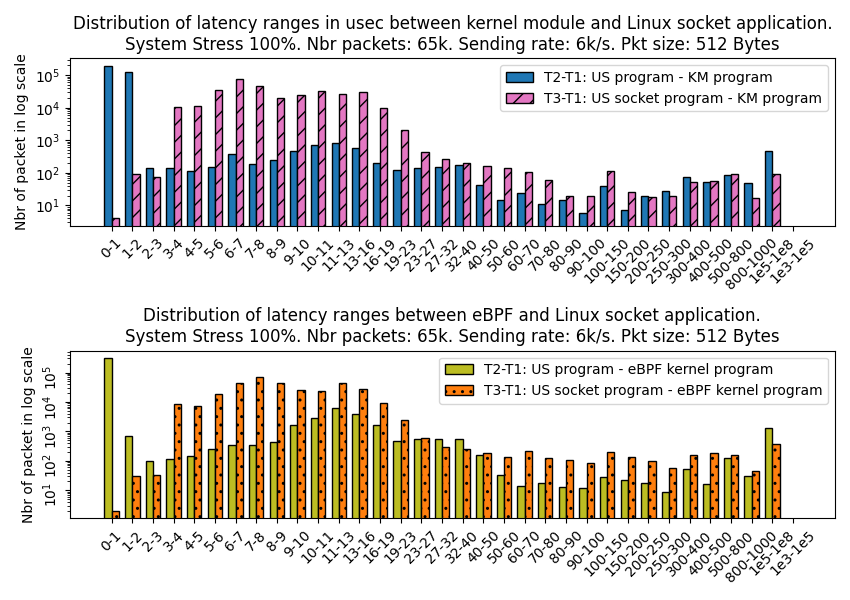
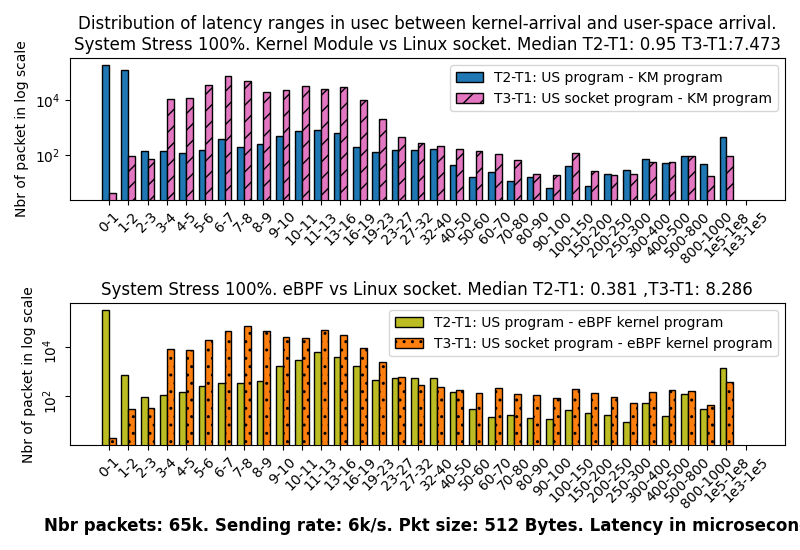
good images

diff --git a/scripts/ps_combi_2_stress_non.py b/scripts/ps_combi_2_stress_non.py
@@ -15,12 +15,12 @@ import math
 # ]
 
 translate_cases = {
-    "32k_nonstress_3pkpms_1024Bytes": "Non-Stress. Nbr packets: 32k. Sending rate: 3k/s. Pkt size: 1024 Bytes",
-    "32k_stress_3pkpms_1024Bytes": "System Stress 100%. Nbr packets: 32k. Sending rate: 3k/s. Pkt size: 1024 Bytes",
-    "65k_nonstress_6pkpms_512Bytes": "Non-Stress. Nbr packets: 65k. Sending rate: 6k/s. Pkt size: 512 Bytes",
-    "65k_stress_6pkpms_512Bytes": "System Stress 100%. Nbr packets: 65k. Sending rate: 6k/s. Pkt size: 512 Bytes",
-    "524k_nonstress_50pkpms_64Bytes": "Non-Stress. Nbr packets: 524k. Sending rate: 50k/s. Pkt size: 64 Bytes",
-    "524k_stress_50pkpms_64Bytes": "System Stress 100%. Nbr packets: 524k. Sending rate: 50k/s. Pkt size: 64 Bytes",
+    "32k_nonstress_3pkpms_1024Bytes": ["Non-Stress", "Nbr packets: 32k. Sending rate: 3k/s. Pkt size: 1024 Bytes"],
+    "32k_stress_3pkpms_1024Bytes": ["System Stress 100%", "Nbr packets: 32k. Sending rate: 3k/s. Pkt size: 1024 Bytes"],
+    "65k_nonstress_6pkpms_512Bytes": ["Non-Stress", "Nbr packets: 65k. Sending rate: 6k/s. Pkt size: 512 Bytes"],
+    "65k_stress_6pkpms_512Bytes": ["System Stress 100%", "Nbr packets: 65k. Sending rate: 6k/s. Pkt size: 512 Bytes"],
+    "524k_nonstress_50pkpms_64Bytes": ["Non-Stress", "Nbr packets: 524k. Sending rate: 50k/s. Pkt size: 64 Bytes"],
+    "524k_stress_50pkpms_64Bytes": ["System Stress 100%", "Nbr packets: 524k. Sending rate: 50k/s. Pkt size: 64 Bytes"],
 }
 
 to_usec = 1
@@ -355,9 +355,16 @@ for test_case in test_cases:
         label="T3-T1: US socket program - eBPF kernel program", color="tab:orange", hatch='..', edgecolor = "black")#diff_s_ebpf")
 
     # Add some text for labels, title and custom x-axis tick labels, etc.
-    title_postfix = f"{translate_cases.get(test_case)}"
-    axs[0].set_title(f"Distribution of latency ranges in usec between kernel module and Linux socket application.\n" + title_postfix)
-    axs[1].set_title(f"Distribution of latency ranges between eBPF and Linux socket application.\n" + title_postfix)
+    case = translate_cases.get(test_case)
+    axs[0].set_title(
+        "Distribution of latency ranges in usec between kernel-arrival and user-space arrival.\n" +
+        case[0] +
+        ". Kernel Module vs Linux socket. Median T2-T1: " + str(diffs_median[0]/1000) + " T3-T1:" + str(diffs_median[1]/1000)
+    )
+    axs[1].set_title(
+        case[0] + 
+        ". eBPF vs Linux socket. Median T2-T1: " + str(diffs_median[2]/1000) + " ,T3-T1: " + str(diffs_median[3]/1000)
+    )
     for i in range(0, 2):
         axs[i].set_ylabel('Nbr of packet in log scale')
         # if v==1000:
@@ -370,12 +377,12 @@ for test_case in test_cases:
         axs[i].legend()
         axs[i].set_xticklabels(labels, rotation=45)
         # axs[i].set_yticklabels(rotation='vertical')
-
+    axs[1].set_xlabel(case[1] + ". Latency in microsecond", fontweight="bold", fontsize="large")
     # axs[0].bar_label(rects1, padding=3)
     # axs[1].bar_label(rects2, padding=3)
     # axs[0].bar_label(rects3, padding=3)
     # axs[1].bar_label(rects4, padding=3)
-    fig.set_size_inches(8.5, 6)
+    fig.set_size_inches(8, 5.5)
     fig.tight_layout()
 
     # plt.xticks(rotation=45)
